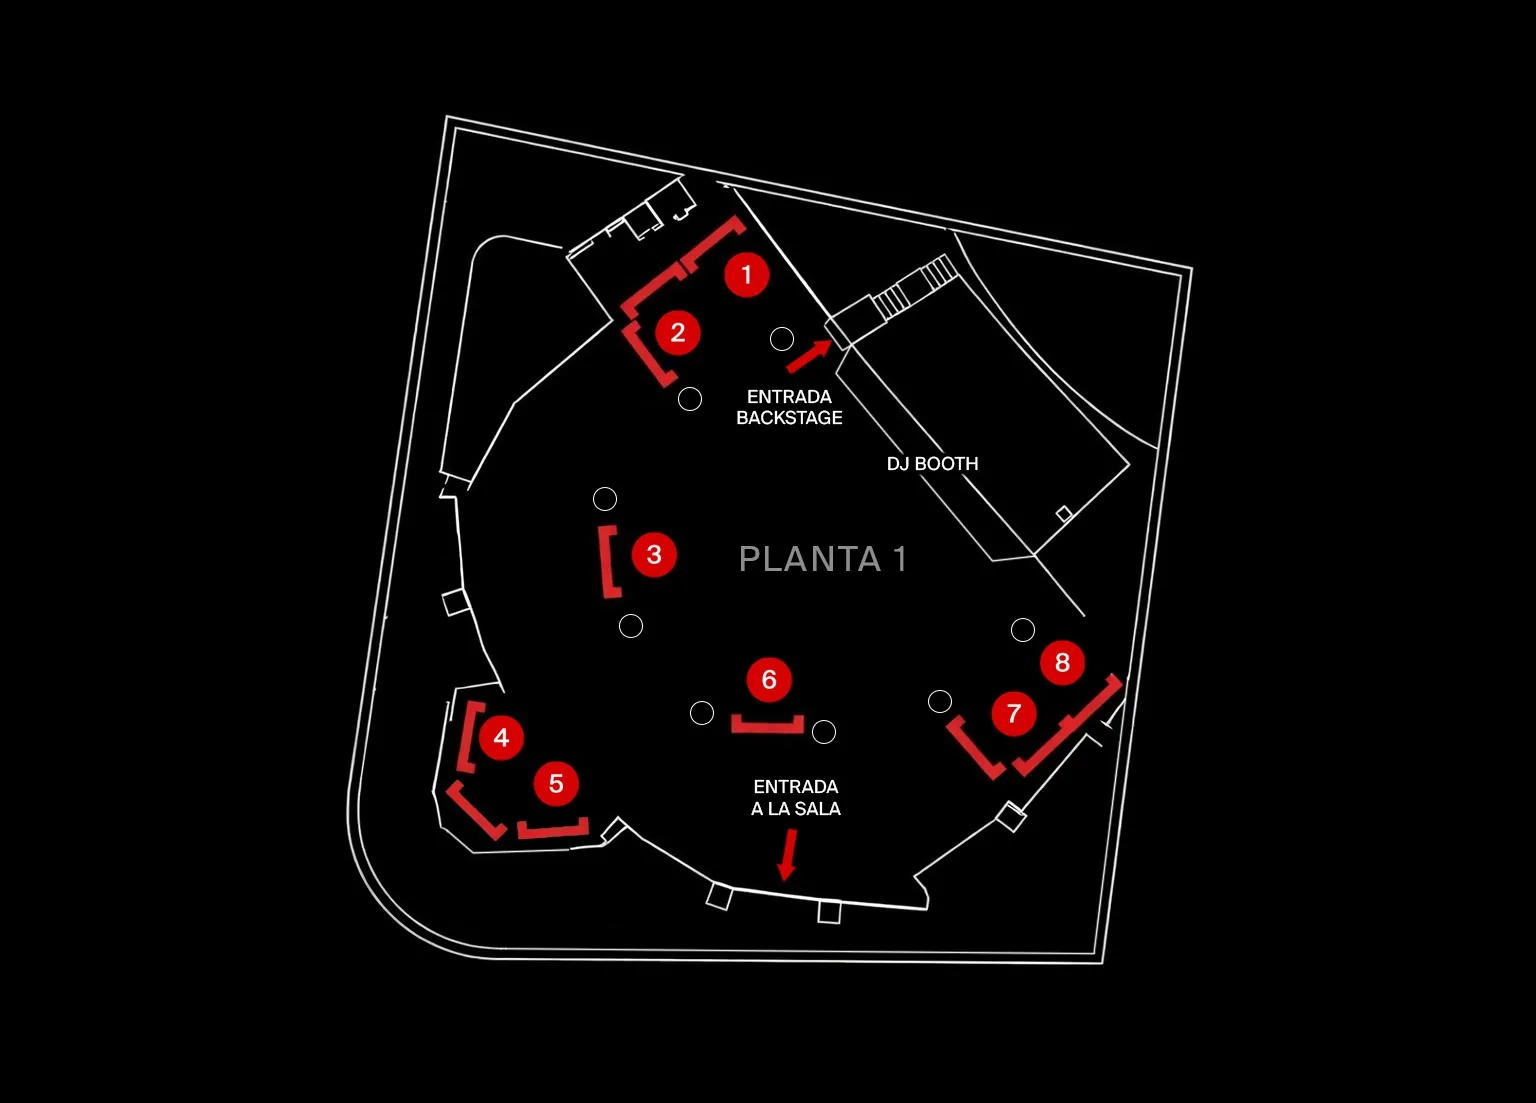
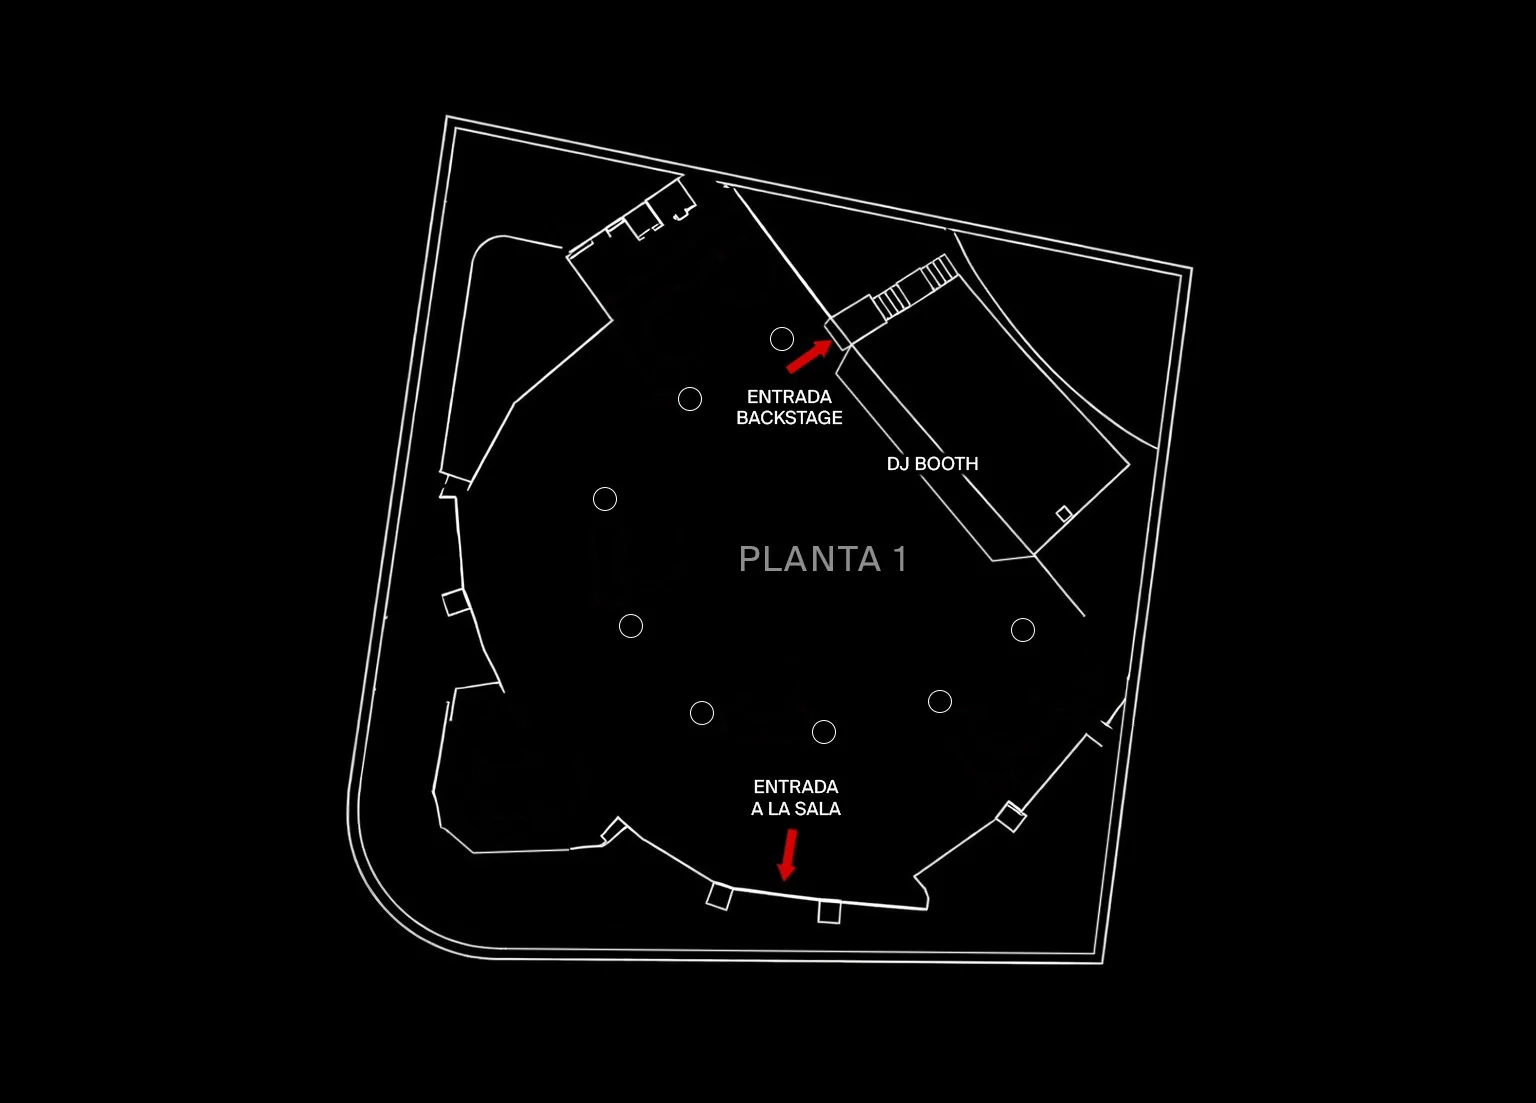
Mondo: real dance floor zones on the plan, no VIP tables or filter buttons, smoking area outside the front
Claude-Session: https://claude.ai/code/session_01RrjfzxK7VqTeneLAvFHdfK

diff --git a/src/screens/StageScreen.tsx b/src/screens/StageScreen.tsx
@@ -1,13 +1,15 @@
 import { useRef, useState } from 'react'
 import { store, useStore } from '../lib/store'
 import { ageOf, dotOpacity, fraction, fresh, pinned } from '../lib/rules'
-import { agoLong, hasCloseUp, isLine, placeTitle, TYPES, where, type Place, type PlaceType } from '../lib/venue'
+import { agoLong, floorView, floorZone, hasCloseUp, isLine, placeTitle, squarePoint, TYPES, where, type Place, type PlaceType, type SquareShape, type Venue } from '../lib/venue'
 import { useNow, mySync, crewRows, statusOf } from '../lib/view'
 import { Avatar, Scaled, SmsFallback, SyncPill } from '../components/common'
 import { Penguin } from '../components/Penguin'
 import { activityFor } from '../lib/penguin'
 
 const W = 362
+const MX = 26 // plan visible around an angled dance floor
+const MY = 40
 const GROUPS: PlaceType[] = ['stage', 'bar', 'food', 'picnic']
 
 /** Close-up floor size: stages are tall, bars and trucks are wide and shallow. */
@@ -23,6 +25,38 @@ const Tag = ({ style, children }: { style: React.CSSProperties; children: React.
   <div style={{ position: 'absolute', fontSize: 9, color: 'var(--color-neutral-700)', pointerEvents: 'none', letterSpacing: '.06em', ...style }}>{children}</div>
 )
 const solid = { background: 'linear-gradient(180deg, var(--color-accent-800), color-mix(in srgb, var(--color-accent-800) 40%, transparent))', boxShadow: '0 0 0 1.5px var(--color-accent-300), 0 6px 24px -8px var(--color-accent)', color: 'var(--color-accent-200)' }
+
+/** A club dance floor: the floor plan around it, turned so the DJ booth is at the top, with the zones on top. */
+function PlanFloor({ v, sh, g, gh }: { v: Venue; sh: SquareShape; g: number; gh: number }) {
+  const k = g / sh.w
+  const [x0, y0] = squarePoint(sh, 0, 0) // front-left corner
+  const [r1, r2] = sh.rows ?? [1 / 3, 2 / 3]
+  const [c1, c2] = sh.cols ?? [1 / 3, 2 / 3]
+  const line = 'color-mix(in srgb, #3bf0ff 55%, transparent)'
+  const xs = [0, c1, c2, 1]
+  const ys = [0, r1, r2, 1]
+  return (
+    <>
+      <img
+        src={v.map_url}
+        alt=""
+        draggable={false}
+        style={{ position: 'absolute', left: 0, top: 0, width: v.map_w, maxWidth: 'none', transformOrigin: '0 0', transform: `translate(${MX}px, ${MY}px) scale(${k}) rotate(${-sh.angle}deg) translate(${-x0}px, ${-y0}px)`, opacity: 0.6, pointerEvents: 'none' }}
+      />
+      <div style={{ position: 'absolute', left: MX, top: MY, width: g, height: gh, border: `1.5px dashed ${line}`, background: 'rgba(59,240,255,.04)', pointerEvents: 'none' }}>
+        {[c1, c2].map(c => <div key={c} style={{ position: 'absolute', left: `${c * 100}%`, top: 0, bottom: 0, borderLeft: `1.5px dashed ${line}` }} />)}
+        {[r1, r2].map(r => <div key={r} style={{ position: 'absolute', top: `${r * 100}%`, left: 0, right: 0, borderTop: `1.5px dashed ${line}` }} />)}
+        {ys.slice(0, 3).flatMap((y, i) =>
+          xs.slice(0, 3).map((x, j) => (
+            <div key={`${i}${j}`} style={{ position: 'absolute', left: `${x * 100}%`, top: `${y * 100}%`, width: `${(xs[j + 1] - x) * 100}%`, height: `${(ys[i + 1] - y) * 100}%`, display: 'grid', placeItems: 'center', font: '500 9px var(--font-body)', color: 'rgba(59,240,255,.5)', textAlign: 'center' }}>
+              {floorZone(sh, (x + xs[j + 1]) / 2, (y + ys[i + 1]) / 2)}
+            </div>
+          )),
+        )}
+      </div>
+    </>
+  )
+}
 
 /** What's drawn on the floor: the real thing at its relative size, plus zone guides. */
 function FloorArt({ p, h, maxLen }: { p: Place; h: number; maxLen: number }) {
@@ -103,7 +137,14 @@ export function StageScreen() {
   const sync = mySync(s, now)
 
   if (!place) return <div className="screen" />
-  const H = floorHeight(place)
+  // Angled club dance floors are drawn on the real floor plan, turned so the DJ is at the
+  // top, with a margin of plan around the grid so columns and walls help you find your spot.
+  const sq = place.shape?.kind === 'square' ? place.shape : null
+  const G = W - 2 * MX
+  const GH = sq ? (G * sq.h) / sq.w : 0
+  const H = sq ? GH + 2 * MY : floorHeight(place)
+  const toX = (nx: number) => (sq ? MX + nx * G : nx * W)
+  const toY = (ny: number) => (sq ? MY + ny * GH : ny * H)
   const maxLen = Math.max(1, ...s.places.map(p => (p.shape && isLine(p.shape) && p.shape.kind === 'counter' ? p.shape.len : 0)))
   const siblings = closeUps.filter(p => p.type === place.type)
   const groups = GROUPS.filter(g => closeUps.some(p => p.type === g))
@@ -111,10 +152,11 @@ export function StageScreen() {
 
   const onTap = (e: React.MouseEvent) => {
     const r = floorRef.current!.getBoundingClientRect()
-    const nx = Math.min(1, Math.max(0, (e.clientX - r.left) / r.width))
-    const ny = Math.min(1, Math.max(0, (e.clientY - r.top) / r.height))
+    const [x, y] = [((e.clientX - r.left) / r.width) * W, ((e.clientY - r.top) / r.height) * H]
+    const nx = Math.min(1, Math.max(0, sq ? (x - MX) / G : x / W))
+    const ny = Math.min(1, Math.max(0, sq ? (y - MY) / GH : y / H))
     store.checkIn(place.id, nx, ny)
-    setRipple({ x: nx * W, y: ny * H, k: Date.now() })
+    setRipple({ x: toX(nx), y: toY(ny), k: Date.now() })
     navigator.vibrate?.(15)
   }
 
@@ -194,7 +236,7 @@ export function StageScreen() {
             style={{ position: 'absolute', inset: 0, cursor: 'crosshair', overflow: 'hidden', background: 'radial-gradient(120% 55% at 50% 0%, color-mix(in srgb, var(--color-accent) 10%, transparent), transparent 70%)', borderRadius: place.type === 'stage' ? '0 0 var(--radius-lg) var(--radius-lg)' : 'var(--radius-lg)', boxShadow: 'var(--shadow-sm)' }}
           >
             <div style={{ position: 'absolute', inset: 0, pointerEvents: 'none', backgroundImage: 'linear-gradient(var(--color-neutral-900) 1px, transparent 1px), linear-gradient(90deg, var(--color-neutral-900) 1px, transparent 1px)', backgroundSize: '22px 22px', opacity: 0.55 }} />
-            <FloorArt p={place} h={H} maxLen={maxLen} />
+            {sq && s.venue ? <PlanFloor v={floorView(s.venue, place.floor)} sh={sq} g={G} gh={GH} /> : <FloorArt p={place} h={H} maxLen={maxLen} />}
 
             {here.map(r => {
               const d = r.dot!
@@ -208,7 +250,7 @@ export function StageScreen() {
                     e.stopPropagation()
                     store.ui({ findId: r.member.id, screen: 'find' })
                   }}
-                  style={{ position: 'absolute', left: d.nx * W, top: d.ny * H, transform: 'translate(-50%, -80%)', border: 0, padding: 0, background: 'transparent', cursor: 'pointer', opacity: dotOpacity(f) * 0.4 + 0.6, display: 'flex', flexDirection: 'column', alignItems: 'center' }}
+                  style={{ position: 'absolute', left: toX(d.nx), top: toY(d.ny), transform: 'translate(-50%, -80%)', border: 0, padding: 0, background: 'transparent', cursor: 'pointer', opacity: dotOpacity(f) * 0.4 + 0.6, display: 'flex', flexDirection: 'column', alignItems: 'center' }}
                 >
                   <Penguin color={r.member.color} acc={r.member.acc ?? 0} activity={activityFor(place.type, r.member.status, r.fresh)} seed={r.member.id} size={size} glow={f} signal={r.member.net ?? null} saver={!!r.member.saver} />
                   <span style={{ whiteSpace: 'nowrap', font: '500 10px var(--font-body)', color: '#fff', textShadow: '0 0 6px #000' }}>
@@ -222,7 +264,7 @@ export function StageScreen() {
               const f = fraction(mine!, now)
               const size = 32 + Math.min(4, mine!.taps - 1) * 4
               return (
-                <div style={{ position: 'absolute', left: mine!.nx * W, top: mine!.ny * H, transform: 'translate(-50%, -80%)', pointerEvents: 'none', opacity: 0.6 + 0.4 * f, display: 'flex', flexDirection: 'column', alignItems: 'center' }}>
+                <div style={{ position: 'absolute', left: toX(mine!.nx), top: toY(mine!.ny), transform: 'translate(-50%, -80%)', pointerEvents: 'none', opacity: 0.6 + 0.4 * f, display: 'flex', flexDirection: 'column', alignItems: 'center' }}>
                   <Penguin color={me.color} acc={me.acc ?? 0} activity={activityFor(place.type, me.status, fresh(mine, now))} seed={me.id} size={size} glow={f} signal={s.myNet} saver={s.dataSaver} queued={!sent} />
                   <span style={{ whiteSpace: 'nowrap', font: '500 10px var(--font-body)', color: '#fff', textShadow: '0 0 6px #000' }}>
                     You

diff --git a/src/screens/MapScreen.tsx b/src/screens/MapScreen.tsx
@@ -100,11 +100,12 @@ export function MapScreen() {
           overlay={
             <>
             {floors.length > 0 && !tapPin && !sel && (
-              <div style={{ position: 'absolute', left: '50%', bottom: 10, transform: 'translateX(-50%)', zIndex: 3, pointerEvents: 'none', whiteSpace: 'nowrap', font: '500 10px var(--font-body)', color: 'rgba(255,255,255,.55)', padding: '4px 10px', borderRadius: 999, background: 'rgba(0,0,0,.6)' }}>
+              <div style={{ position: 'absolute', left: '50%', top: 8, transform: 'translateX(-50%)', zIndex: 3, pointerEvents: 'none', whiteSpace: 'nowrap', font: '500 10px var(--font-body)', color: 'rgba(255,255,255,.55)', padding: '4px 10px', borderRadius: 999, background: 'rgba(0,0,0,.6)' }}>
                 Tap the map to pin your spot
               </div>
             )}
-            <div className="no-scrollbar" style={{ position: 'absolute', left: 0, right: 0, top: 8, padding: '0 12px', display: 'flex', gap: 5, overflowX: 'auto', zIndex: 3 }}>
+            {/* Filters for the big festival map; a club plan is small enough to show everything. */}
+            {!floors.length && <div className="no-scrollbar" style={{ position: 'absolute', left: 0, right: 0, top: 8, padding: '0 12px', display: 'flex', gap: 5, overflowX: 'auto', zIndex: 3 }}>
               {typesHere.map(([k, [label, icon]]) => {
                 const on = isOn(k)
                 return (
@@ -122,7 +123,7 @@ export function MapScreen() {
                   </button>
                 )
               })}
-            </div>
+            </div>}
             </>
           }
           corner={
@@ -222,7 +223,8 @@ export function MapScreen() {
                         <div key={st.id}>
                           <svg width={MAP_W} height={MAP_H} style={{ position: 'absolute', inset: 0, overflow: 'visible', pointerEvents: 'none' }}>
                             <polygon points={outline(v, sq).map(q => `${q.x},${q.y}`).join(' ')} style={{ fill: 'color-mix(in srgb, var(--color-accent) 10%, transparent)', stroke: 'color-mix(in srgb, var(--color-accent-300) 60%, transparent)', strokeWidth: inv }} />
-                            {[1 / 3, 2 / 3].flatMap(t => [line(at(t, 0), at(t, 1), `v${t}`), line(at(0, t), at(1, t), `h${t}`)])}
+                            {(sq.cols ?? [1 / 3, 2 / 3]).map(t => line(at(t, 0), at(t, 1), `v${t}`))}
+                            {(sq.rows ?? [1 / 3, 2 / 3]).map(t => line(at(0, t), at(1, t), `h${t}`))}
                             {line(at(0, 0), at(1, 0), 'front', true)}
                           </svg>
                           <button
@@ -436,26 +438,18 @@ function mapPenguins(s: State, v: Venue, rows: CrewRow[], now: number, floor: nu
   return out.sort((a, b) => a.y - b.y)
 }
 
-/** The smoke lounge: a little patio next to the club where smoking penguins hang out. */
+/** The smoking area: the strip outside the building's front, shown from both floors. */
 function Lounge({ v, p, inv }: { v: Venue; p: Place; inv: number }) {
   const sh = p.shape as { cx: number; cy: number; w: number; h: number }
   const a = toMap(v, sh.cx - sh.w / 2, sh.cy - sh.h / 2)
   const b = toMap(v, sh.cx + sh.w / 2, sh.cy + sh.h / 2)
   const [w, h] = [b.x - a.x, b.y - a.y]
-  const amber = '#ff8a3b'
-  const bench = (x: number, y: number, bw: number) => <rect x={a.x + x * w} y={a.y + y * h} width={bw * w} height={h * 0.035} rx={h * 0.015} fill="color-mix(in srgb, #ff8a3b 35%, #000)" />
+  const teal = '#3bf0ff'
   return (
     <g style={{ pointerEvents: 'none' }}>
-      <rect x={a.x} y={a.y} width={w} height={h} rx={8} fill="rgba(255,138,59,.07)" stroke={amber} strokeOpacity={0.7} strokeWidth={inv} strokeDasharray={`${4 * inv} ${3 * inv}`} style={{ filter: `drop-shadow(0 0 4px ${amber})` }} />
-      {bench(0.12, 0.9, 0.3)}
-      {bench(0.58, 0.9, 0.3)}
-      {bench(0.08, 0.5, 0.06)}
-      <circle cx={a.x + w * 0.5} cy={a.y + h * 0.62} r={Math.min(w, h) * 0.05} fill="none" stroke={amber} strokeOpacity={0.5} strokeWidth={inv} />
-      <text x={a.x + w / 2} y={a.y + h * 0.26} textAnchor="middle" fontSize={7.5} fontWeight={600} fill={amber} fillOpacity={0.85} fontFamily="Inter, sans-serif" letterSpacing=".04em">
-        SMOKE
-      </text>
-      <text x={a.x + w / 2} y={a.y + h * 0.26 + 9} textAnchor="middle" fontSize={7.5} fontWeight={600} fill={amber} fillOpacity={0.85} fontFamily="Inter, sans-serif" letterSpacing=".04em">
-        LOUNGE
+      <rect x={a.x} y={a.y} width={w} height={h} fill="rgba(0,120,120,.28)" stroke={teal} strokeOpacity={0.75} strokeWidth={inv} strokeDasharray={`${4 * inv} ${3 * inv}`} />
+      <text x={a.x + w / 2} y={a.y + h / 2 + 3} textAnchor="middle" fontSize={8} fontWeight={500} fill={teal} fillOpacity={0.9} fontFamily="Inter, sans-serif">
+        smoking area (outside)
       </text>
     </g>
   )

diff --git a/src/lib/venue.ts b/src/lib/venue.ts
@@ -3,8 +3,12 @@ export type PlaceType = 'stage' | 'wc' | 'bar' | 'water' | 'medic' | 'food' | 'p
 /** Real outline on the map image (pixels). Places with a shape get a close-up view. */
 export type LineShape = { kind: 'counter' | 'trucks'; cx: number; cy: number; len: number; angle: number; depth: number }
 export type BoxShape = { kind: 'kiosk' | 'tables'; cx: number; cy: number; size: number }
-/** A dance floor at an angle: `angle` is the direction of "right" when facing the DJ, so front is 90° before it. */
-export type SquareShape = { kind: 'square'; cx: number; cy: number; size: number; angle: number }
+/**
+ * A dance floor at an angle, w wide (left→right facing the DJ) and h deep (front→back).
+ * `angle` is the direction of "right"; front is 90° before it. rows/cols: where the 3×3
+ * zones split (0–1), when they aren't even thirds.
+ */
+export type SquareShape = { kind: 'square'; cx: number; cy: number; w: number; h: number; angle: number; rows?: [number, number]; cols?: [number, number] }
 /** Club venues: the patch of floor a place covers. Tap anywhere in it to pin there. No close-up. */
 export type ZoneShape = { kind: 'zone'; cx: number; cy: number; w: number; h: number; bg?: boolean } // bg: whole-floor fallback, no icon
 export type Shape = LineShape | BoxShape | SquareShape | ZoneShape
@@ -73,7 +77,7 @@ export const TYPES: Record<PlaceType, [label: string, icon: string]> = {
   picnic: ['Picnic', 'ph ph-picnic-table'],
   open: ['Open areas', 'ph ph-tree'],
   coat: ['Coat check', 'ph ph-coat-hanger'],
-  outside: ['Smoke lounge', 'ph ph-cigarette'],
+  outside: ['Smoking area', 'ph ph-cigarette'],
 }
 
 export const STATUS: [icon: string, label: string][] = [
@@ -96,6 +100,13 @@ export const MAP_H = 346
 export const zone = (nx: number, ny: number) =>
   `${ny < 0.333 ? 'front' : ny < 0.666 ? 'mid' : 'back'} ${nx < 0.333 ? 'L' : nx < 0.666 ? 'C' : 'R'}`
 
+/** Angled dance floors use the venue's own zone names: "front left", "middle middle"… */
+export function floorZone(sh: SquareShape, nx: number, ny: number) {
+  const [r1, r2] = sh.rows ?? [1 / 3, 2 / 3]
+  const [c1, c2] = sh.cols ?? [1 / 3, 2 / 3]
+  return `${ny < r1 ? 'front' : ny < r2 ? 'middle' : 'back'} ${nx < c1 ? 'left' : nx < c2 ? 'middle' : 'right'}`
+}
+
 /** Stages and shaped places (bars, trucks, picnic) open a tap-where-you-are close-up. */
 export const hasCloseUp = (p: Place | undefined) => !!p && (p.type === 'stage' || (!!p.shape && p.shape.kind !== 'zone'))
 
@@ -116,7 +127,7 @@ export function spot(p: Place, nx: number, ny: number) {
 export function where(p: Place | undefined, nx = 0.5, ny = 0.5) {
   if (!p) return 'Somewhere'
   const fl = p.floor ? ` · Planta ${p.floor}` : ''
-  if (p.type === 'stage') return `${p.name} · ${zone(nx, ny)}${fl}`
+  if (p.type === 'stage') return `${p.name} · ${p.shape?.kind === 'square' ? floorZone(p.shape, nx, ny) : zone(nx, ny)}${fl}`
   const base = p.near ? `${p.name} · by ${p.near}` : p.name
   const s = p.shape ? spot(p, nx, ny) : ''
   return `${s ? `${base} · ${s}` : base}${fl}`
@@ -189,7 +200,7 @@ export function outline(v: Venue, sh: Shape) {
 /** Close-up spot (nx right, ny back, 0–1) → map image px on an angled dance floor. */
 export function squarePoint(sh: SquareShape, nx: number, ny: number): [number, number] {
   const a = (sh.angle * Math.PI) / 180
-  const [u, w] = [(nx - 0.5) * sh.size, (ny - 0.5) * sh.size] // right, back
+  const [u, w] = [(nx - 0.5) * sh.w, (ny - 0.5) * sh.h] // right, back
   return [sh.cx + Math.cos(a) * u - Math.sin(a) * w, sh.cy + Math.sin(a) * u + Math.cos(a) * w]
 }
 
@@ -206,9 +217,9 @@ export function placeAt(places: Place[], floor: number, x: number, y: number) {
     if (sh.kind === 'square') {
       const a = (sh.angle * Math.PI) / 180
       const [dx, dy] = [x - sh.cx, y - sh.cy]
-      nx = (dx * Math.cos(a) + dy * Math.sin(a)) / sh.size + 0.5
-      ny = (-dx * Math.sin(a) + dy * Math.cos(a)) / sh.size + 0.5
-      area = sh.size * sh.size
+      nx = (dx * Math.cos(a) + dy * Math.sin(a)) / sh.w + 0.5
+      ny = (-dx * Math.sin(a) + dy * Math.cos(a)) / sh.h + 0.5
+      area = sh.w * sh.h
     } else if (sh.kind === 'zone') {
       nx = (x - sh.cx) / sh.w + 0.5
       ny = (y - sh.cy) / sh.h + 0.5

diff --git a/supabase/functions/push/index.ts b/supabase/functions/push/index.ts
@@ -56,7 +56,7 @@ interface Place {
   type: string
   name: string
   near: string
-  shape: { kind: string } | null
+  shape: { kind: string; rows?: [number, number]; cols?: [number, number] } | null
   floor?: number | null
 }
 
@@ -74,10 +74,17 @@ function spot(p: Place, nx: number, ny: number) {
   return ''
 }
 
+// Angled club dance floors name their zones in full: "front left", "middle middle"…
+function floorZone(sh: { rows?: [number, number]; cols?: [number, number] }, nx: number, ny: number) {
+  const [r1, r2] = sh.rows ?? [1 / 3, 2 / 3]
+  const [c1, c2] = sh.cols ?? [1 / 3, 2 / 3]
+  return `${ny < r1 ? 'front' : ny < r2 ? 'middle' : 'back'} ${nx < c1 ? 'left' : nx < c2 ? 'middle' : 'right'}`
+}
+
 function where(p: Place | undefined, nx = 0.5, ny = 0.5) {
   if (!p) return 'somewhere'
   const fl = p.floor ? ` · Planta ${p.floor}` : ''
-  if (p.type === 'stage') return `${p.name} · ${zone(nx, ny)}${fl}`
+  if (p.type === 'stage') return `${p.name} · ${p.shape?.kind === 'square' ? floorZone(p.shape, nx, ny) : zone(nx, ny)}${fl}`
   const base = p.near ? `${p.name} · by ${p.near}` : p.name
   const s = spot(p, nx, ny)
   return `${s ? `${base} · ${s}` : base}${fl}`
